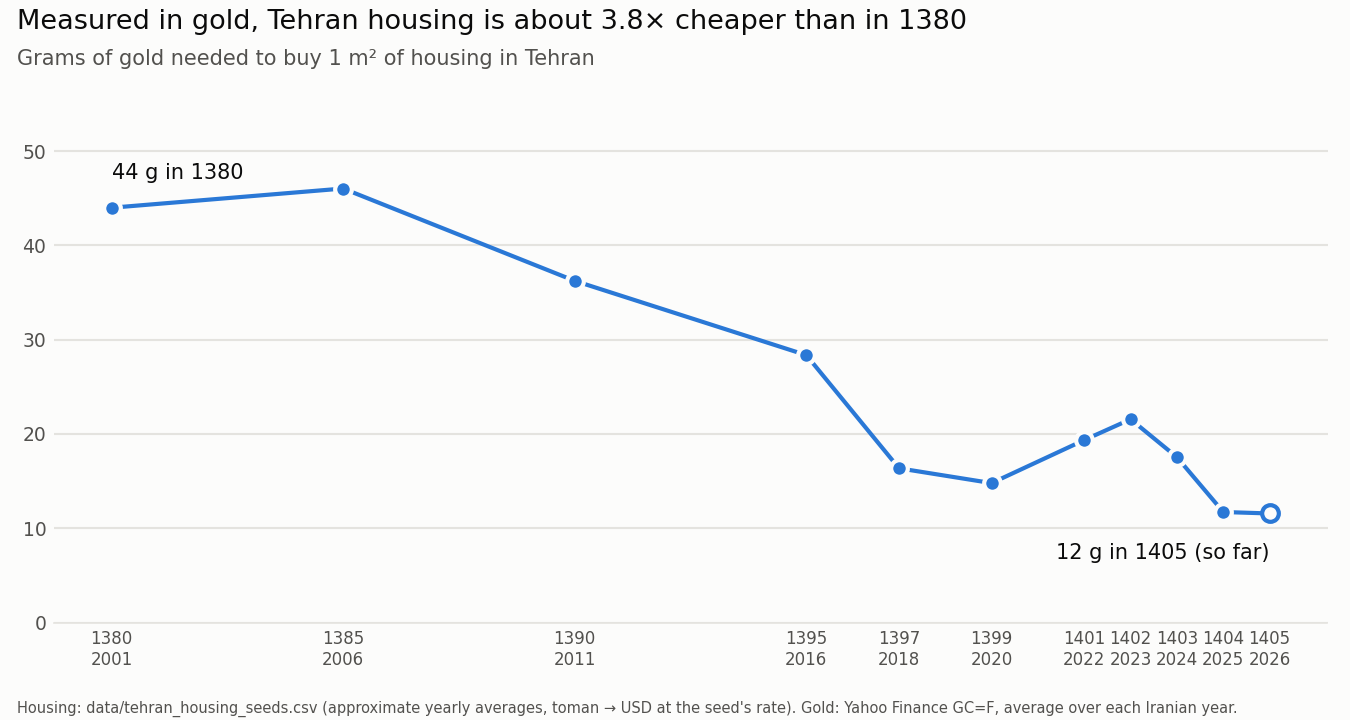
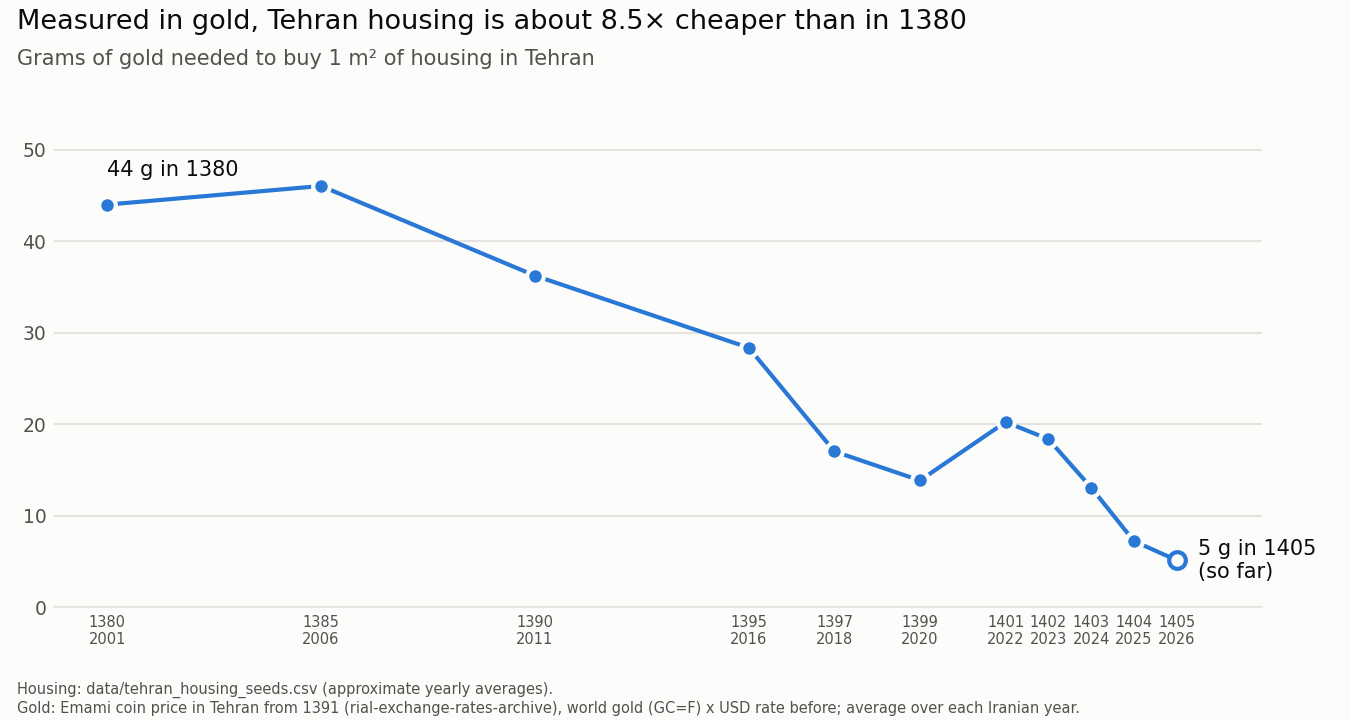
Use archive USD rates and Tehran gold coin prices for the housing-vs-gold results

diff --git a/analysis/housing_vs_gold.py b/analysis/housing_vs_gold.py
@@ -1,14 +1,15 @@
 """
 Tehran housing priced in grams of gold, per Iranian (Jalali) year.
 
-Reads the housing seed file, downloads the world gold price (Yahoo Finance `GC=F`,
-USD per troy ounce), averages it over each Iranian year (Nowruz to Nowruz) and works out
-how many grams of gold one square metre of Tehran housing cost.
+Reads the housing seed file and works out how many grams of gold one square metre of
+Tehran housing cost, using the yearly average (Nowruz to Nowruz) of gold in toman:
+- the Emami gold coin price in Tehran (rial-exchange-rates-archive, from 1391), or
+- before that, the world gold price (Yahoo Finance `GC=F`, USD per ounce) at the seed's USD rate.
 
 Run from the repo root:
     python analysis/housing_vs_gold.py
 
-Writes docs/housing_vs_gold.csv and docs/housing_vs_gold.png.
+Writes data/gold_toman_yearly.csv, docs/housing_vs_gold.csv and docs/housing_vs_gold.png.
 """
 
 from datetime import date, timedelta
@@ -19,10 +20,13 @@ import pandas as pd
 
 ROOT = Path(__file__).resolve().parent.parent
 SEED_FILE = ROOT / "data" / "tehran_housing_seeds.csv"
+GOLD_FILE = ROOT / "data" / "gold_toman_yearly.csv"
 OUTPUT_DIR = ROOT / "docs"
 
 GRAMS_PER_TROY_OUNCE = 31.1034768
 GOLD_TICKER = "GC=F"  # gold futures in USD per ounce; GLD only starts in Nov 2004
+EMAMI_COIN_GOLD_GRAMS = 7.3224  # 8.136 g coin, 900 fine
+ARCHIVE_URL = "https://raw.githubusercontent.com/SamadiPour/rial-exchange-rates-archive/data/currency/{}.json"
 
 
 def jalali_year_window(jalali_year: int) -> tuple[date, date]:
@@ -42,14 +46,32 @@ def average_by_jalali_year(prices: pd.Series, years) -> pd.Series:
     return pd.Series(averages, dtype=float)
 
 
-def build_table(housing: pd.DataFrame, gold_usd_per_oz: pd.Series, today: date) -> pd.DataFrame:
-    """Add USD, gold and grams-of-gold columns to the housing seed rows."""
+def parse_archive(raw: dict) -> pd.Series:
+    """Daily 'sell' prices from a rial-exchange-rates-archive file, keyed 'YYYY/MM/DD' (Jalali)."""
+    prices = {}
+    for jalali_day, quote in raw.items():
+        y, m, d = map(int, jalali_day.split("/"))
+        prices[pd.Timestamp(jdatetime.date(y, m, d).togregorian())] = quote["sell"]
+    return pd.Series(prices).sort_index()
+
+
+def build_table(
+    housing: pd.DataFrame, gold_usd_per_oz: pd.Series, coin_toman: pd.Series, today: date
+) -> pd.DataFrame:
+    """Add USD, gold and grams-of-gold columns to the housing seed rows.
+
+    Gold in toman comes from the Emami coin price in Tehran where there is one,
+    otherwise from the world gold price at the seed's USD rate.
+    """
     table = housing.copy()
     table["usd_per_sqm"] = table["avg_price_toman_sqm"] / table["usd_rate_at_time"]
     table["gold_usd_per_oz"] = table["jalali_year"].map(gold_usd_per_oz)
-    gold_usd_per_gram = table["gold_usd_per_oz"] / GRAMS_PER_TROY_OUNCE
-    table["gold_toman_per_gram"] = gold_usd_per_gram * table["usd_rate_at_time"]
-    table["grams_gold_per_sqm"] = table["usd_per_sqm"] / gold_usd_per_gram
+    world_toman_per_gram = table["gold_usd_per_oz"] / GRAMS_PER_TROY_OUNCE * table["usd_rate_at_time"]
+    coin_toman_per_gram = table["jalali_year"].map(coin_toman) / EMAMI_COIN_GOLD_GRAMS
+    has_coin = coin_toman_per_gram.notna()
+    table["gold_toman_per_gram"] = coin_toman_per_gram.where(has_coin, world_toman_per_gram)
+    table["gold_source"] = has_coin.map({True: "Emami coin, Tehran", False: "world gold x USD rate"})
+    table["grams_gold_per_sqm"] = table["avg_price_toman_sqm"] / table["gold_toman_per_gram"]
     # The current year is not over: its gold average only covers the days so far
     table["partial_year"] = [jalali_year_window(year)[1] >= today for year in table["jalali_year"]]
     return table
@@ -64,6 +86,15 @@ def download_gold_usd_per_oz(start: date) -> pd.Series:
         raise RuntimeError(f"Yahoo Finance returned no data for {GOLD_TICKER}")
     # yfinance returns one column per ticker under "Close"
     return data["Close"].squeeze("columns").dropna()
+
+
+def download_archive(name: str) -> pd.Series:
+    """Daily prices in toman from rial-exchange-rates-archive (e.g. 'usd', 'emami1')."""
+    import requests
+
+    response = requests.get(ARCHIVE_URL.format(name), timeout=60)
+    response.raise_for_status()
+    return parse_archive(response.json())
 
 
 def plot(table: pd.DataFrame, path: Path) -> None:
@@ -93,15 +124,15 @@ def plot(table: pd.DataFrame, path: Path) -> None:
         [d for d, f in zip(x, full) if not f], y[~full], s=64, color=surface, edgecolors=line, linewidths=2, zorder=3
     )
 
-    # Label only the first point (above) and the last point (below, clear of the line)
+    # Label only the first point (above) and the last point (to its right, clear of the line)
     first, last = table.index[0], table.index[-1]
-    for i, align, offset, valign in ((first, "left", 12, "bottom"), (last, "right", -14, "top")):
+    for i, align, offset, valign in ((first, "left", (0, 12), "bottom"), (last, "left", (10, 0), "center")):
         year = table.loc[i, "jalali_year"]
-        note = " (so far)" if table.loc[i, "partial_year"] else ""
+        note = "\n(so far)" if table.loc[i, "partial_year"] else ""
         ax.annotate(
             f"{y[i]:.0f} g in {year}{note}",
             (x[table.index.get_loc(i)], y[i]),
-            xytext=(0, offset),
+            xytext=offset,
             textcoords="offset points",
             ha=align,
             va=valign,
@@ -111,10 +142,11 @@ def plot(table: pd.DataFrame, path: Path) -> None:
 
     ticks = x
     ax.set_xticks(ticks)
-    ax.set_xticklabels([f"{j}\n{d.year}" for j, d in zip(table["jalali_year"], x)], fontsize=8, color=muted)
+    ax.set_xticklabels([f"{j}\n{d.year}" for j, d in zip(table["jalali_year"], x)], fontsize=7, color=muted)
     ax.tick_params(axis="y", labelsize=9, colors=muted)
     ax.tick_params(length=0)
     ax.set_ylim(0, y.max() * 1.2)
+    ax.set_xlim(right=x[-1] + pd.DateOffset(years=2))  # room for the last label
     ax.grid(axis="y", color=grid, linewidth=1)
     ax.set_axisbelow(True)
     for side in ("top", "right", "left"):
@@ -133,12 +165,13 @@ def plot(table: pd.DataFrame, path: Path) -> None:
     fig.text(
         0.0125,
         0.01,
-        "Housing: data/tehran_housing_seeds.csv (approximate yearly averages, toman → USD at the seed's rate). "
-        "Gold: Yahoo Finance GC=F, average over each Iranian year.",
+        "Housing: data/tehran_housing_seeds.csv (approximate yearly averages).\n"
+        "Gold: Emami coin price in Tehran from 1391 (rial-exchange-rates-archive), world gold (GC=F) x USD rate before; "
+        "average over each Iranian year.",
         fontsize=7,
         color=muted,
     )
-    fig.tight_layout(rect=(0, 0.04, 1, 0.89))
+    fig.tight_layout(rect=(0, 0.07, 1, 0.89))
     fig.savefig(path, facecolor=surface)
     plt.close(fig)
 
@@ -146,9 +179,14 @@ def plot(table: pd.DataFrame, path: Path) -> None:
 def main() -> None:
     housing = pd.read_csv(SEED_FILE)
     first_day = jalali_year_window(int(housing["jalali_year"].min()))[0]
-    gold = average_by_jalali_year(download_gold_usd_per_oz(first_day), housing["jalali_year"])
-    table = build_table(housing, gold, today=date.today())
+    years = housing["jalali_year"]
+    gold = average_by_jalali_year(download_gold_usd_per_oz(first_day), years)
+    coin = average_by_jalali_year(download_archive("emami1"), years)
+    table = build_table(housing, gold, coin, today=date.today())
 
+    gold_columns = ["jalali_year", "gold_toman_per_gram", "gold_source", "partial_year"]
+    gold_yearly = table[gold_columns].round({"gold_toman_per_gram": 0}).astype({"gold_toman_per_gram": "int64"})
+    gold_yearly.to_csv(GOLD_FILE, index=False)
     OUTPUT_DIR.mkdir(exist_ok=True)
     table.round(2).to_csv(OUTPUT_DIR / "housing_vs_gold.csv", index=False)
     plot(table, OUTPUT_DIR / "housing_vs_gold.png")

diff --git a/tests/test_housing_vs_gold.py b/tests/test_housing_vs_gold.py
@@ -4,8 +4,16 @@ import math
 from datetime import date
 
 import pandas as pd
+import pytest
 
-from analysis.housing_vs_gold import average_by_jalali_year, build_table, jalali_year_window
+from analysis.housing_vs_gold import (
+    average_by_jalali_year,
+    build_table,
+    jalali_year_window,
+    parse_archive,
+)
+
+NO_COIN = pd.Series(dtype=float)
 
 
 def test_jalali_year_runs_from_nowruz_to_the_day_before_the_next_nowruz():
@@ -32,17 +40,38 @@ def test_average_is_missing_for_a_year_without_prices():
     assert math.isnan(averages[1381])
 
 
-def test_table_prices_housing_in_dollars_and_in_grams_of_gold():
+def test_archive_jalali_dates_become_gregorian_days():
+    raw = {"1403/01/02": {"sell": 7, "buy": 6}, "1403/01/01": {"sell": 5, "buy": 4}}
+    prices = parse_archive(raw)
+    assert prices.to_dict() == {pd.Timestamp("2024-03-20"): 5, pd.Timestamp("2024-03-21"): 7}
+
+
+def test_table_without_coin_price_uses_world_gold_times_dollar_rate():
     housing = pd.DataFrame(
         {"jalali_year": [1380], "avg_price_toman_sqm": [1_000_000], "usd_rate_at_time": [1_000]}
     )
     gold = pd.Series({1380: 311.034768})  # exactly 10 USD per gram
 
-    row = build_table(housing, gold, today=date(2026, 10, 30)).iloc[0]
+    row = build_table(housing, gold, NO_COIN, today=date(2026, 10, 30)).iloc[0]
 
     assert row["usd_per_sqm"] == 1_000
-    assert row["gold_toman_per_gram"] == 10_000
-    assert row["grams_gold_per_sqm"] == 100
+    assert row["gold_toman_per_gram"] == pytest.approx(10_000)
+    assert row["grams_gold_per_sqm"] == pytest.approx(100)
+    assert row["gold_source"] == "world gold x USD rate"
+
+
+def test_table_uses_the_tehran_coin_price_when_there_is_one():
+    housing = pd.DataFrame(
+        {"jalali_year": [1403], "avg_price_toman_sqm": [100_000_000], "usd_rate_at_time": [50_000]}
+    )
+    gold = pd.Series({1403: 311.034768})  # world gold would give 500,000 toman/g: must be ignored
+    coin = pd.Series({1403: 73_224_000})  # an Emami coin holds 7.3224 g of gold -> 10,000,000 toman/g
+
+    row = build_table(housing, gold, coin, today=date(2026, 10, 30)).iloc[0]
+
+    assert row["gold_toman_per_gram"] == pytest.approx(10_000_000)
+    assert row["grams_gold_per_sqm"] == pytest.approx(10)
+    assert row["gold_source"] == "Emami coin, Tehran"
 
 
 def test_table_marks_the_year_that_is_not_over_yet_as_partial():
@@ -51,6 +80,6 @@ def test_table_marks_the_year_that_is_not_over_yet_as_partial():
     )
     gold = pd.Series({1404: 1.0, 1405: 1.0})
 
-    table = build_table(housing, gold, today=date(2026, 10, 30))
+    table = build_table(housing, gold, NO_COIN, today=date(2026, 10, 30))
 
     assert table["partial_year"].tolist() == [False, True]

diff --git a/README.md b/README.md
@@ -23,7 +23,7 @@ Apache Airflow pipelines that collect **Iranian** macro and market data (USD/IRR
 
 - **USD/IRR has two regimes.** Up to 2010 the series is the official rate (Yahoo Finance); after that it is the open-market rate from the archive. In Iran these differ a lot, so treat the jump between them as a change of source, not a market move. There can be a gap between the end of 2010 and the archive's first date.
 - **Gold is a proxy.** GLD is a US gold ETF priced in USD, not the domestic Iranian gold or coin price.
-- **Housing is a small seed file:** approximate yearly averages for selected Iranian (Jalali) years, 1380 (2001/02) to 1405 (2026/27), compiled by the author.
+- **Housing is a small seed file:** approximate yearly averages for selected Iranian (Jalali) years, 1380 (2001/02) to 1405 (2026/27), compiled by the author. From 1395 on, its USD rates are yearly averages from the rial archive.
 
 ---
 
@@ -31,36 +31,40 @@ Apache Airflow pipelines that collect **Iranian** macro and market data (USD/IRR
 
 ![Grams of gold needed to buy 1 m² of housing in Tehran, 1380 to 1405](docs/housing_vs_gold.png)
 
-From 1380 (2001) to 1405 (2026), the average price of 1 m² in Tehran rose about **468× in toman**, but only about **4× in US dollars**: most of the rise in toman is the rial losing value. Gold priced in toman rose even faster, about **1,780×**. So measured in gold, housing got cheaper: 1 m² cost about **44 g of gold in 1380** and about **12 g in 1405**. Someone holding gold could buy about 3.8× more housing at the end than at the start, before counting rent, which housing earns and gold does not.
+From 1380 (2001) to 1405 (2026), the average price of 1 m² in Tehran rose about **468× in toman**, but only about **2× in US dollars**: almost all of the rise in toman is the rial losing value. Gold in toman rose much faster, about **4,000×**. So measured in gold, housing got much cheaper: 1 m² cost about **44 g of gold in 1380** and about **5 g in 1405**, roughly 8.5× less. Someone holding gold could buy far more housing at the end than at the start, before counting rent, which housing earns and gold does not.
 
-| Iranian year | Housing, toman/m² | USD rate, toman | Housing, USD/m² | Gold, USD/oz | Gold, toman/g | Grams of gold per m² |
-|---|--:|--:|--:|--:|--:|--:|
-| 1380 | 310,000 | 792 | 391 | 277 | 7,047 | 44.0 |
-| 1385 | 850,000 | 920 | 924 | 624 | 18,468 | 46.0 |
-| 1390 | 2,100,000 | 1,100 | 1,909 | 1,639 | 57,956 | 36.2 |
-| 1395 | 4,300,000 | 3,750 | 1,147 | 1,258 | 151,614 | 28.4 |
-| 1397 | 8,200,000 | 12,350 | 664 | 1,262 | 501,194 | 16.4 |
-| 1399 | 20,000,000 | 23,050 | 868 | 1,825 | 1,352,131 | 14.8 |
-| 1401 | 48,000,000 | 42,650 | 1,125 | 1,808 | 2,479,395 | 19.4 |
-| 1402 | 76,000,000 | 55,000 | 1,382 | 1,993 | 3,524,235 | 21.6 |
-| 1403 | 90,000,000 | 62,000 | 1,452 | 2,574 | 5,130,646 | 17.5 |
-| 1404 | 115,000,000 | 78,000 | 1,474 | 3,910 | 9,806,068 | 11.7 |
-| 1405 (so far) | 145,000,000 | 89,000 | 1,629 | 4,379 | 12,531,282 | 11.6 |
+| Iranian year | Housing, toman/m² | USD rate, toman | Housing, USD/m² | Gold, toman/g | Gold source | Grams of gold per m² |
+|---|--:|--:|--:|--:|---|--:|
+| 1380 | 310,000 | 792 | 391 | 7,047 | world gold × USD | 44.0 |
+| 1385 | 850,000 | 920 | 924 | 18,468 | world gold × USD | 46.0 |
+| 1390 | 2,100,000 | 1,100 | 1,909 | 57,956 | world gold × USD | 36.2 |
+| 1395 | 4,300,000 | 3,638 | 1,182 | 151,656 | Emami coin | 28.4 |
+| 1397 | 8,200,000 | 10,527 | 779 | 481,465 | Emami coin | 17.0 |
+| 1399 | 20,000,000 | 23,174 | 863 | 1,442,630 | Emami coin | 13.9 |
+| 1401 | 48,000,000 | 35,098 | 1,368 | 2,370,489 | Emami coin | 20.2 |
+| 1402 | 76,000,000 | 51,779 | 1,468 | 4,136,005 | Emami coin | 18.4 |
+| 1403 | 90,000,000 | 68,695 | 1,310 | 6,875,579 | Emami coin | 13.1 |
+| 1404 | 115,000,000 | 111,508 | 1,031 | 15,903,106 | Emami coin | 7.2 |
+| 1405 (so far) | 145,000,000 | 187,666 | 773 | 28,145,656 | Emami coin | 5.2 |
 
-**How it's calculated:** housing in USD = toman price ÷ the USD rate in the seed file. Gold is the world price (Yahoo Finance `GC=F`, USD per troy ounce), averaged over each Iranian year (1 Farvardin to the end of Esfand), then converted to toman per gram at the same USD rate. Grams per m² = housing in USD ÷ gold in USD per gram.
+**How it's calculated:**
+
+- **USD rate:** from 1395 on, the yearly average of the open-market rate in [rial-exchange-rates-archive](https://github.com/SamadiPour/rial-exchange-rates-archive) (the same source as the FX DAG); before that, the rate in the seed file. Housing in USD = toman price ÷ this rate.
+- **Gold in toman per gram:** from 1391 on, the yearly average price of the Emami gold coin in Tehran from the same archive, divided by its 7.3224 g of pure gold. Before 1391 there is no coin data, so it is the world gold price (Yahoo Finance `GC=F`, USD per troy ounce) × the USD rate. Saved in [`data/gold_toman_yearly.csv`](data/gold_toman_yearly.csv).
+- **Grams of gold per m²** = housing in toman ÷ gold in toman per gram. Every average runs over the Iranian year, 1 Farvardin to the end of Esfand.
 
 **Read it with care:**
 
-- The housing figures are approximate yearly averages from the seed file, not an official series.
-- This is the world gold price, not the price of gold or a gold coin in Tehran, which usually carries a premium.
-- 1405 is not over: its gold average covers only the months up to the last run (2026-10-30).
+- The housing figures are approximate yearly averages from the seed file, not an official series. The Central Bank of Iran's monthly transaction series ended in Mordad 1403, so **1404 and 1405 are estimates**, and 1405 (145 million toman/m²) looks low next to current listing prices.
+- The coin price includes a premium over the gold it contains, so from 1391 on, gold in toman is a little higher than the world price would give.
+- 1405 is not over: its averages cover only the days up to the last run (2026-10-31).
 - The seed years are uneven (5 years apart at the start), so this can't show anything shorter than a year, such as whether housing follows gold with a lag of a few months.
 - The numbers come from [`analysis/housing_vs_gold.py`](analysis/housing_vs_gold.py), which reads the same sources directly; it does not read the Postgres tables yet.
 
-Reproduce (writes `docs/housing_vs_gold.csv` and `docs/housing_vs_gold.png`):
+Reproduce (writes `data/gold_toman_yearly.csv`, `docs/housing_vs_gold.csv` and `docs/housing_vs_gold.png`):
 
 ```bash
-pip install jdatetime pandas yfinance matplotlib
+pip install jdatetime pandas requests yfinance matplotlib
 python analysis/housing_vs_gold.py
 ```
 
@@ -127,7 +131,8 @@ ir-housing-gold-fx-model/
 │   ├── gdp_pipeline.py              # World Bank GDP → raw.gdp_data
 │   └── housing_prices_pipeline.py   # seed CSV → raw.housing_historical_raw
 ├── analysis/housing_vs_gold.py      # housing priced in gold → docs/housing_vs_gold.{csv,png}
-├── data/tehran_housing_seeds.csv    # housing seed data (the only committed data file)
+├── data/tehran_housing_seeds.csv    # housing seed data
+├── data/gold_toman_yearly.csv       # gold in toman per gram per year (written by the analysis script)
 ├── docs/                            # results chart and table shown in this README
 ├── tests/                           # pytest checks, run in CI
 ├── .github/workflows/ci.yml         # CI: compose check + tests
